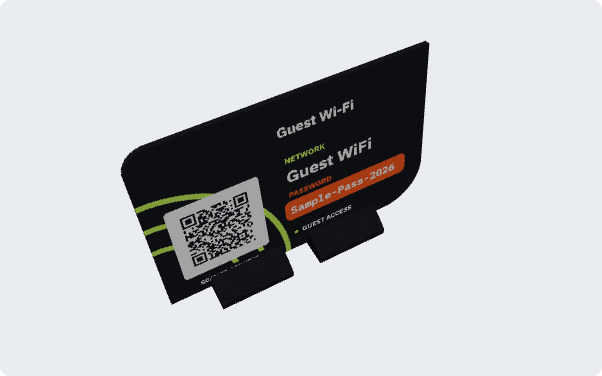
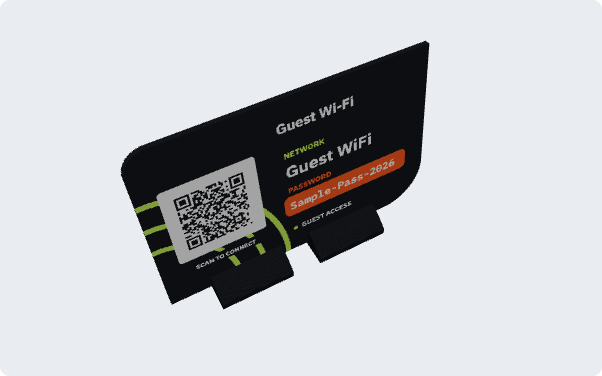
Keep the bottom 10 mm of the card clear so the stand does not hide text

Changed region(s): [[0.2392, 0.2633, 0.6877, 0.7606], [0.6578, 0.3803, 0.6877, 0.4096]]

diff --git a/index.html b/index.html
@@ -60,7 +60,7 @@ button:hover:not(:disabled){filter:brightness(1.06)}
 .stage{display:grid;gap:16px;justify-items:center}
 .wifi-card{width:min(100%,640px);aspect-ratio:150/94;background:var(--c-base);color:var(--c-white);
   border-radius:8% 0 16% 0 / 12.766% 0 25.532% 0;
-  padding:5.5% 9% 5.5% 6.7%;position:relative;display:grid;grid-template-columns:auto 1fr;gap:6%;align-items:center;
+  padding:5.5% 9% 11% 6.7%;position:relative;display:grid;grid-template-columns:auto 1fr;gap:6%;align-items:center;
   container-type:inline-size;box-shadow:0 18px 40px -18px rgba(10,20,35,.55)}
 .wifi-card.framed::before{content:"";position:absolute;inset:3.191% 2%;border:2px solid var(--c-a1);pointer-events:none;
   border-radius:6.25% 0 14.58% 0 / 10.2% 0 23.9% 0}
@@ -474,7 +474,7 @@ footer{grid-column:1/-1;font-size:.8rem;color:var(--muted);text-align:center}
     // 左下を中心にした電波の弧。キャプション用に弧を切り欠く
     if(corner){const g=G.a1;g.lineWidth=S(3);g.lineCap="butt";
       for(const r of [38,52,66]){g.beginPath();g.arc(0,S(94),S(r),-Math.PI/2,0);g.stroke();}
-      g.globalCompositeOperation="destination-out";g.fillRect(S(11),S(85),S(44),S(6.5));g.globalCompositeOperation="source-over";g.lineCap="round";}
+      g.globalCompositeOperation="destination-out";g.fillRect(S(11),S(72.5),S(44),S(6.5));g.globalCompositeOperation="source-over";g.lineCap="round";}
     if($("frame").checked){G.a1.lineWidth=S(1.2);rrc(G.a1,S(3),S(3),S(144),S(88),[S(9),0,S(21),0]);G.a1.stroke();}
 
     // 見出し行: ロゴ（高さ12mm枠）または Wi-Fi アイコン + 見出し
@@ -482,23 +482,23 @@ footer{grid-column:1/-1;font-size:.8rem;color:var(--muted);text-align:center}
     if(logoImg){
       const asp=logoAspect(),lw=Math.min(12*asp,45),lh=lw/asp;
       const pw=Math.max(1,Math.round(S(lw))),ph=Math.max(1,Math.round(S(lh)));
-      G[$("logoLayer").value].drawImage(maskToCanvas(logoMask(pw,ph),pw,ph,"#ffffff"),Math.round(S(68)),Math.round(S(10+(12-lh)/2)));
+      G[$("logoLayer").value].drawImage(maskToCanvas(logoMask(pw,ph),pw,ph,"#ffffff"),Math.round(S(68)),Math.round(S(8+(12-lh)/2)));
       headR=68+lw;
     }else headR=64;
-    text(G.white,$("title").value,headR+4,20,7,700,SANS,136-(headR+4));
+    text(G.white,$("title").value,headR+4,18,7,700,SANS,136-(headR+4));
 
-    text(G.a1,L.net,70,36,4.2,700,SANS,68);
-    text(G.white,$("ssid").value,70,48,9,700,SANS,68);
+    text(G.a1,L.net,70,33,4.2,700,SANS,68);
+    text(G.white,$("ssid").value,70,45,9,700,SANS,68);
     if(showPwOn()){
-      text(G.a2,L.pw,70,57.5,4.2,700,SANS,68);
-      rrc(G.a2,S(67),S(60),S(72),S(13),[S(3.5),S(3.5),S(3.5),S(3.5)]);G.a2.fill();
-      text(G.white,$("pw").value,70,69,6.5,600,MONO,66);
+      text(G.a2,L.pw,70,54.5,4.2,700,SANS,68);
+      rrc(G.a2,S(67),S(57),S(72),S(13),[S(3.5),S(3.5),S(3.5),S(3.5)]);G.a2.fill();
+      text(G.white,$("pw").value,70,66,6.5,600,MONO,66);
     }
-    if($("foot").value){G.a1.beginPath();G.a1.arc(S(71.6),S(82.6),S(1.2),0,Math.PI*2);G.a1.fill();text(G.white,$("foot").value,75,84,4,700,SANS,60);}
-    text(G.white,L.scan,33,89.5,3.4,700,SANS,40,"center");
+    if($("foot").value){G.a1.beginPath();G.a1.arc(S(71.6),S(79.6),S(1.2),0,Math.PI*2);G.a1.fill();text(G.white,$("foot").value,75,81,4,700,SANS,60);}
+    text(G.white,L.scan,33,77.5,3.4,700,SANS,40,"center");
 
     let moduleMm=0;
-    const px=Math.round(S(10)),py=Math.round(S(36)),P=Math.round(S(46));
+    const px=Math.round(S(10)),py=Math.round(S(24)),P=Math.round(S(46));
     rr(G.white,px,py,P,P,S(2));G.white.fill();
     G.a1.globalCompositeOperation="destination-out";rr(G.a1,px,py,P,P,S(2));G.a1.fill();G.a1.globalCompositeOperation="source-over";
     if(lastQr){
